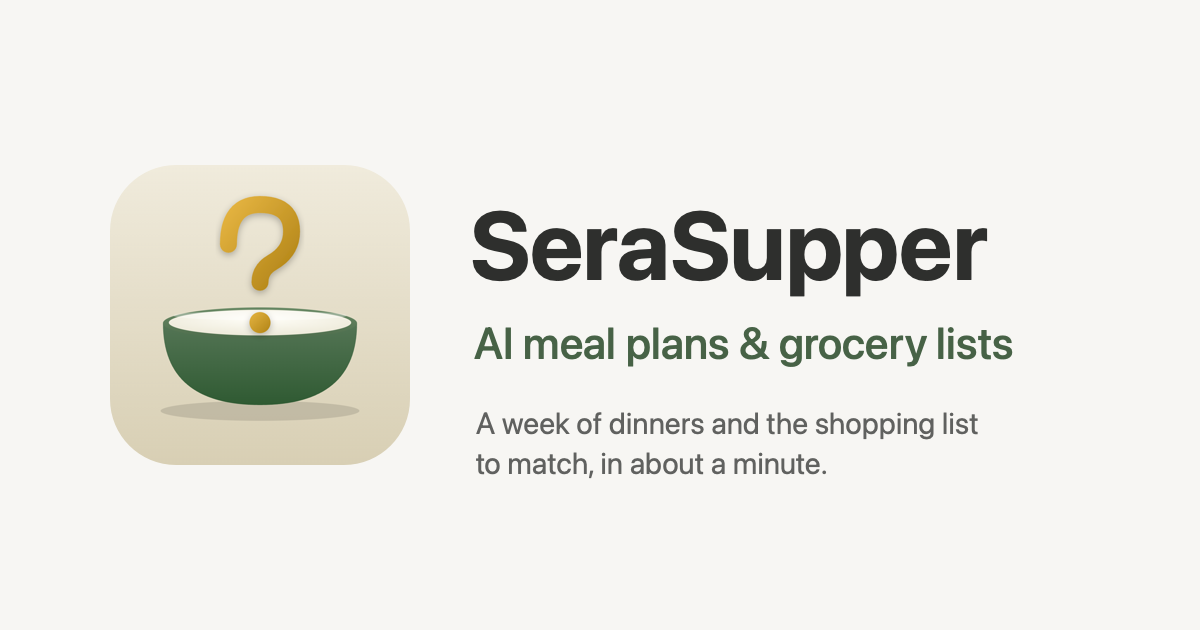
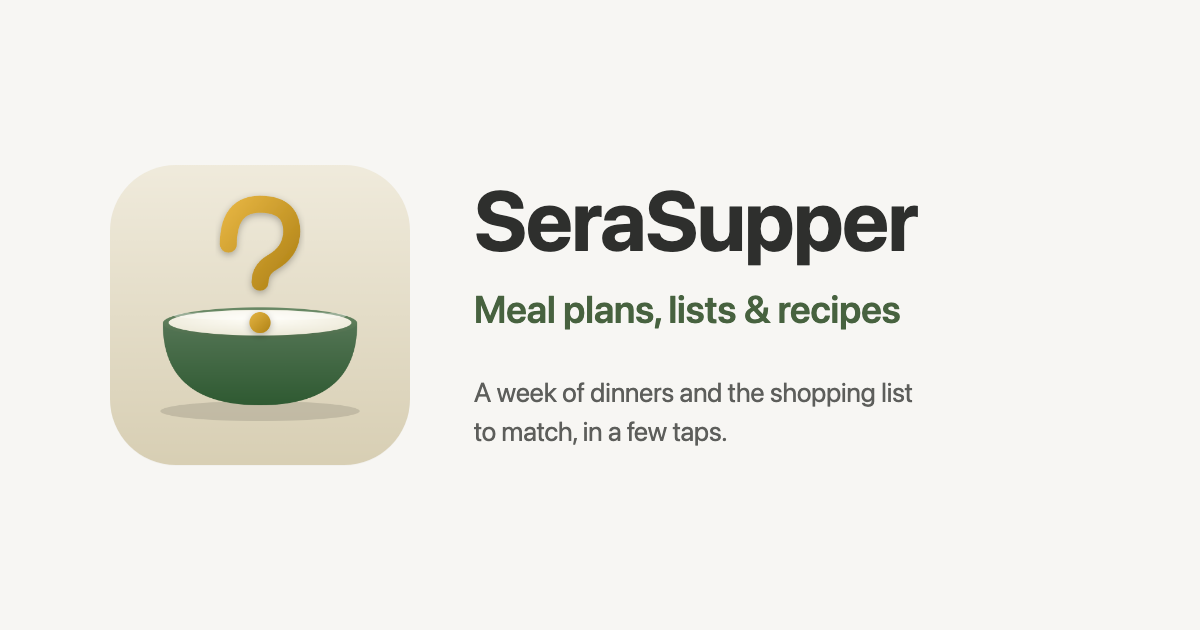
Pre-approval fixes: share image without the timed claim, AI FAQ and support answer match 1.0, privacy policy says AI is on-device only (#4)

Changed region(s): [[0.37, 0.3016, 0.8633, 0.754]]

diff --git a/index.html b/index.html
@@ -14,14 +14,14 @@
   <meta property="og:site_name" content="SeraSupper">
   <meta property="og:title" content="SeraSupper: AI meal plans and grocery lists">
   <meta property="og:description" content="You can plan a week of dinners with the shopping list to match in a few taps. Generate and save recipes. No account, no subscription needed. No data collected.">
-  <meta property="og:image" content="https://serasupper.com/assets/share.png?v=20260918">
+  <meta property="og:image" content="https://serasupper.com/assets/share.png?v=20261001">
   <meta property="og:image:width" content="1200">
   <meta property="og:image:height" content="630">
   <meta property="og:url" content="https://serasupper.com/">
   <meta name="twitter:card" content="summary_large_image">
   <meta name="twitter:title" content="SeraSupper: AI meal plans and grocery lists">
   <meta name="twitter:description" content="You can plan a week of dinners with the shopping list to match in a few taps. Generate and save recipes. No account, no subscription needed. No data collected.">
-  <meta name="twitter:image" content="https://serasupper.com/assets/share.png?v=20260918">
+  <meta name="twitter:image" content="https://serasupper.com/assets/share.png?v=20261001">
 
   <!-- RELEASE DAY: uncomment and fill in the numeric Apple ID from
        App Store Connect → App Information → General Information.
@@ -136,11 +136,13 @@
 
         <dt>Do I need Apple Intelligence?</dt>
         <dd>
-          Only for the AI features: writing recipes and importing ingredients
-          from web recipes. Everything else (the dish library, calendar, Dinner
-          Dash, grocery lists, sync) works on any supported device. Apple
-          Intelligence needs an iPhone 15 Pro or newer, or a recent iPad, with it
-          turned on in Settings.
+          Only for a few extras: AI dish ideas, AI recipe drafts, and AI meal
+          suggestions when adding a meal. Everything else works on any supported
+          device: Dish Ideas from the built-in dish catalog, saving recipes from
+          the web with their ingredients, the dish library, calendar, Dinner Dash,
+          grocery lists, and sync. On an iPhone that can't run Apple Intelligence,
+          the AI extras simply don't appear. Apple Intelligence needs an iPhone 15
+          Pro or newer, or a recent iPad, with it turned on in Settings.
         </dd>
 
         <dt>Is it a subscription?</dt>

diff --git a/privacy/index.html b/privacy/index.html
@@ -17,7 +17,7 @@
   <main class="wrap">
     <p class="eyebrow">Privacy Policy</p>
     <h1>Privacy Policy</h1>
-    <p class="subtitle">SeraSupper — Harper Advanced Technologies<br>Effective Date: August 18, 2026</p>
+    <p class="subtitle">SeraSupper — Harper Advanced Technologies<br>Effective Date: August 18, 2026 · Updated October 1, 2026</p>
 
     <h2>1. Introduction</h2>
     <p>SeraSupper is a meal planning application for iOS developed and published by Harper Advanced Technologies, based in Indianapolis, Indiana, USA. This Privacy Policy explains how SeraSupper handles your information when you use the app. We are committed to protecting your privacy and being transparent about our data practices.</p>
@@ -32,7 +32,7 @@
 
     <h2>3. How Your Information Is Used</h2>
     <p>Because Harper Advanced Technologies does not collect any of your data, we do not use your information for any purpose. We do not analyze, sell, share, license, or profit from your personal information or app content in any form.</p>
-    <p>All AI features within SeraSupper — including recipe suggestions and dish recommendations — are powered by Apple’s FoundationModels framework. This processing occurs on your device. For certain tasks, Apple’s framework may route processing through Apple’s Private Cloud Compute (PCC) infrastructure. In those cases, data handling is governed entirely by Apple’s privacy policies for Private Cloud Compute. Harper Advanced Technologies does not receive, process, log, or retain any information related to your use of AI features.</p>
+    <p>All AI features within SeraSupper — including recipe suggestions and dish recommendations — are powered by Apple’s FoundationModels framework. This processing occurs entirely on your device: SeraSupper uses only Apple’s on-device model and does not send AI requests to Apple’s servers or to any other server. Harper Advanced Technologies does not receive, process, log, or retain any information related to your use of AI features.</p>
     <p>App data stored locally or synced to iCloud is used solely to provide the core functionality of SeraSupper: displaying your meal plans, dish library, recipes, and grocery lists across your devices. No advertising, profiling, or behavioral analysis takes place.</p>
 
     <h2>4. Data Storage and Security</h2>

diff --git a/support/index.html b/support/index.html
@@ -44,11 +44,15 @@
     automatically through Apple’s CloudKit to your private iCloud account. Make sure the
     same Apple Account and iCloud Drive are enabled on each device.</p>
 
-    <h3>Why don’t the AI recipe features appear on my iPhone?</h3>
-    <p>The on-device AI features are built on Apple Intelligence (Apple’s FoundationModels
-    framework), which requires a supported device with Apple Intelligence enabled. On
-    devices without it, the rest of the app works normally — you just won’t see AI
-    suggestions.</p>
+    <h3>Why don’t the AI features appear on my iPhone?</h3>
+    <p>SeraSupper’s AI features — AI dish ideas, AI recipe drafts, and AI meal
+    suggestions when adding a meal — run on the device using Apple Intelligence
+    (Apple’s FoundationModels framework). On an iPhone or iPad that can’t run Apple
+    Intelligence, they don’t appear; everything else works normally, including Dish
+    Ideas from the built-in dish catalog. If your device supports Apple Intelligence
+    but it’s switched off or still downloading, the AI features stay visible with a
+    note on how to turn it on. Settings → About → AI Features in the app shows what’s
+    available on your device and why.</p>
 
     <h3>I imported a recipe from a website but only the ingredients came in. Why?</h3>
     <p>That’s expected. When you import from a recipe website, SeraSupper extracts the
